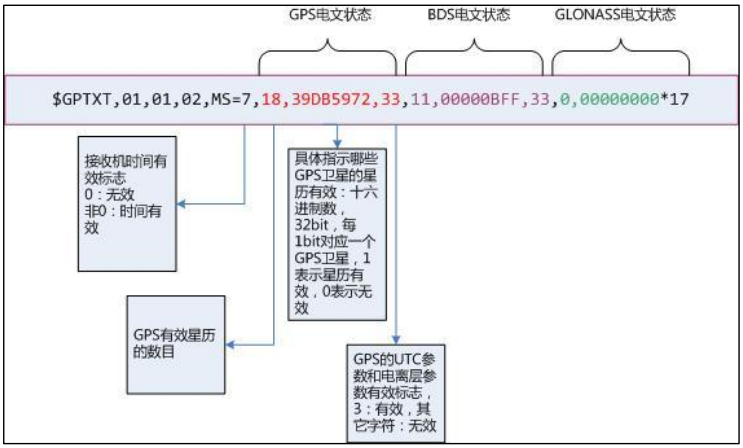
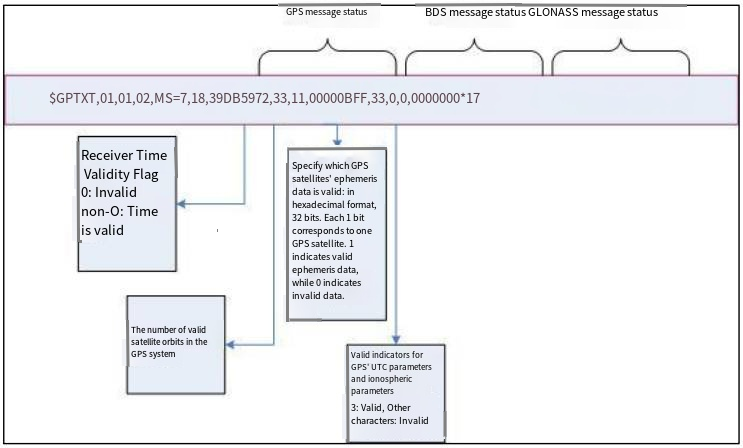
GPS Module 3

diff --git a/source/docs/2.GPS_Routine_Analysis.md b/source/docs/2.GPS_Routine_Analysis.md
@@ -368,7 +368,7 @@ void loop()
 
 <img src="../_static/media/chapter_2/image22.png" class="common_img" />
 
-(3) After selection, click-on <img src="../_static/media/chapter_2/image23.png" /> to upload the code to the UNO board. When the programs are uploaded successfully, you will receive the prompt at the lower left corner.
+(3) After selection, click-on <img src="../_static/media/chapter_2/image23.PNG" /> to upload the code to the UNO board. When the programs are uploaded successfully, you will receive the prompt at the lower left corner.
 
 <img src="../_static/media/chapter_2/image24.png" class="common_img" />
 
@@ -541,7 +541,7 @@ void printGpsBuffer()
 
 <img src="../_static/media/chapter_2/image22.png" class="common_img" />
 
-③ After selection, click-on <img src="../_static/media/chapter_2/image23.png" /> to upload the code to the UNO board. When the programs are uploaded successfully, you will receive the prompt at the lower left corner.
+③ After selection, click-on <img src="../_static/media/chapter_2/image23.PNG" /> to upload the code to the UNO board. When the programs are uploaded successfully, you will receive the prompt at the lower left corner.
 
 <img src="../_static/media/chapter_2/image24.png" class="common_img" />
 
@@ -1471,9 +1471,11 @@ The receiver can output status messages (disabled by default, configuration requ
 
 * **Introduction to Message Status Statements**
 
-<img src="../_static/media/chapter_2/image87.png" class="common_img" />
+<img src="../_static/media/chapter_2/image87.PNG" class="common_img" />
 
-<img src="../_static/media/chapter_2/image88.png" class="common_img" />
+Example：
+$GPTXT, 01,01,02, MS = 7,18,39 DB5972, 33,11,00000 BFF, 33,0,00000000 * 17 +
+7: Time validity sign. 0 is invalid, 2 is an external input, and 7 is valid. 18: The number of valid GPS satellites in the ephemeris. 39DB5972: GPS satellite ephemeris valid marker (unsigned integer, hexadecimal display). Each satellite occupies one position, with the lowest position being Satellite 1, and so on. 1 indicates valid, 0 indicates invalid. 33: GPS UTC and ION information valid flag (unsigned short integer, hexadecimal display.) The first digit is the UTC information valid flag, and the second digit is the I0N information valid flag. 11: The number of BDS satellites valid in the ephemeris. 3 indicates valid, 2 indicates expired, 1 indicates unhealthy, and 0 indicates invalid. 00000BFF: BDS satellite ephemeris valid marker (unsigned integer, hexadecimal display). Each satellite occupies one position, with the lowest position being Satellite 1, and so on. 1 indicates valid, 0 indicates invalid. 33: The UTC and ION information of BDS is valid. The information regulation is the same as the UTC and ION information validity markers of GPS. 0: The number of valid GLN satellites in the ephemeris. 00000000: Valid marker for GLN satellite ephemeris. Consistent with the valid marker of the GPS satellite ephemeris.
 
 (1) This statement outputs the current time and message status within the receiver.
 
